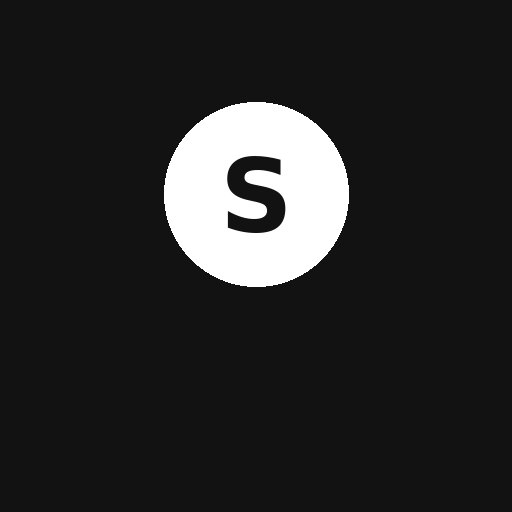
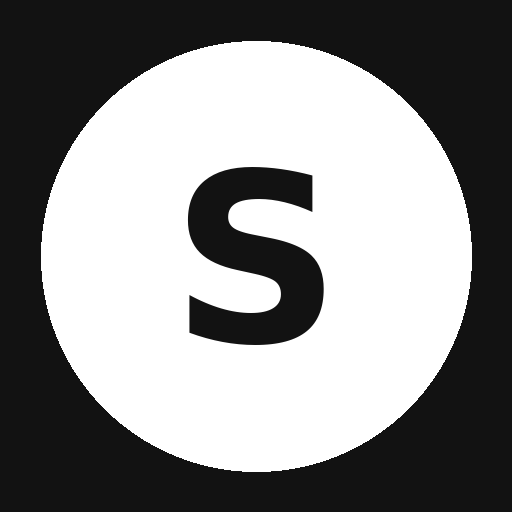
Your new update message

diff --git a/app/matching/employer/MatchingClient.tsx b/app/matching/employer/MatchingClient.tsx
@@ -8,6 +8,7 @@ import { Badge } from "@/components/ui/badge"
 import { Label } from "@/components/ui/label"
 import { supabase } from "@/lib/supabase"
 import { calculateEmployerMatch } from "@/lib/employerMatchScore"
+import Image from "next/image"
 import {
   DropdownMenu,
   DropdownMenuContent,
@@ -619,10 +620,10 @@ export default function MatchingPage() {
       {/* HEADER */}
       <header className="sticky top-0 z-50 border-b border-border bg-background/95 backdrop-blur supports-[backdrop-filter]:bg-background/60">
         <div className="mx-auto flex max-w-7xl items-center justify-between px-4 py-4 sm:px-6 lg:px-8">
-          <Button variant="ghost" className="flex items-center gap-2" onClick={() => router.push("/employer")}>
-            <ChevronLeft className="h-5 w-5" />
-            Back
-          </Button>
+        <Link href="/" className="flex items-center gap-2">
+            <Image src="/icon-192x192.png" alt="SimplyApply logo" width={42} height={42} className="object-contain rounded-lg" />
+            <span className="text-xl font-bold text-foreground">SimplyApply</span>
+          </Link>
           <div className="hidden items-center gap-6 md:flex">
             <Link href="/employer" className="text-sm font-medium text-muted-foreground hover:text-foreground">Dashboard</Link>
             <Link href="/matching/employer" className="text-sm font-medium text-foreground">Find Candidates</Link>

diff --git a/app/pricing/mobile/page.tsx b/app/pricing/mobile/page.tsx
@@ -1,5 +1,5 @@
 "use client"
-
+import Image from "next/image"
 import { useEffect, useState } from "react"
 import { useRouter } from "next/navigation"
 import Link from "next/link"
@@ -142,10 +142,8 @@ export default function BillingPage() {
       {/* HEADER */}
       <header className="border-b border-border bg-background/95 backdrop-blur">
         <div className="mx-auto flex max-w-5xl items-center justify-between px-4 py-4 sm:px-6">
-          <Link href="/" className="flex items-center gap-2">
-            <div className="flex h-9 w-9 items-center justify-center rounded-xl bg-primary">
-              <Briefcase className="h-5 w-5 text-primary-foreground" />
-            </div>
+        <Link href="/" className="flex items-center gap-2">
+            <Image src="/icon-192x192.png" alt="SimplyApply logo" width={42} height={42} className="object-contain rounded-lg" />
             <span className="text-xl font-bold text-foreground">SimplyApply</span>
           </Link>
           {isSubscribed && (

diff --git a/app/employer/profile/page.tsx b/app/employer/profile/page.tsx
@@ -233,8 +233,8 @@ export default function EmployerProfilePage() {
         <div className="mx-auto flex max-w-7xl items-center justify-between px-4 py-4 sm:px-6 lg:px-8">
           <Link href="/" className="flex items-center gap-2">
             <div className="flex h-9 w-9 items-center justify-center">
-              <Image src="/icon-192x192.png" alt="SimplyApply logo" width={28} height={28} className="object-contain" />
-            </div>
+            <Image src="/icon-192x192.png" alt="SimplyApply logo" width={42} height={42} className="object-contain rounded-lg" />
+                        </div>
             <span className="text-xl font-bold text-foreground">SimplyApply</span>
           </Link>
           <div className="hidden items-center gap-6 md:flex">

diff --git a/app/employer/page.tsx b/app/employer/page.tsx
@@ -222,8 +222,8 @@ export default function EmployerDashboard() {
         <div className="mx-auto flex max-w-7xl items-center justify-between px-4 py-4 sm:px-6 lg:px-8">
           <Link href="/" className="flex items-center gap-2">
             <div className="flex h-9 w-9 items-center justify-center">
-              <Image src="/icon-192x192.png" alt="SimplyApply logo" width={28} height={28} className="object-contain" />
-            </div>
+            <Image src="/icon-192x192.png" alt="SimplyApply logo" width={42} height={42} className="object-contain rounded-lg" />
+                        </div>
             <span className="text-xl font-bold text-foreground">SimplyApply</span>
           </Link>
           <div className="hidden items-center gap-6 md:flex">

diff --git a/app/employer/locations/page.tsx b/app/employer/locations/page.tsx
@@ -199,8 +199,8 @@ export default function LocationsPage() {
         <div className="mx-auto flex max-w-7xl items-center justify-between px-4 py-4 sm:px-6 lg:px-8">
           <Link href="/" className="flex items-center gap-2">
             <div className="flex h-9 w-9 items-center justify-center">
-              <Image src="/icon-192x192.png" alt="SimplyApply logo" width={28} height={28} className="object-contain" />
-            </div>
+            <Image src="/icon-192x192.png" alt="SimplyApply logo" width={42} height={42} className="object-contain rounded-lg" />
+                        </div>
             <span className="text-xl font-bold text-foreground">SimplyApply</span>
           </Link>
           <div className="hidden items-center gap-6 md:flex">
